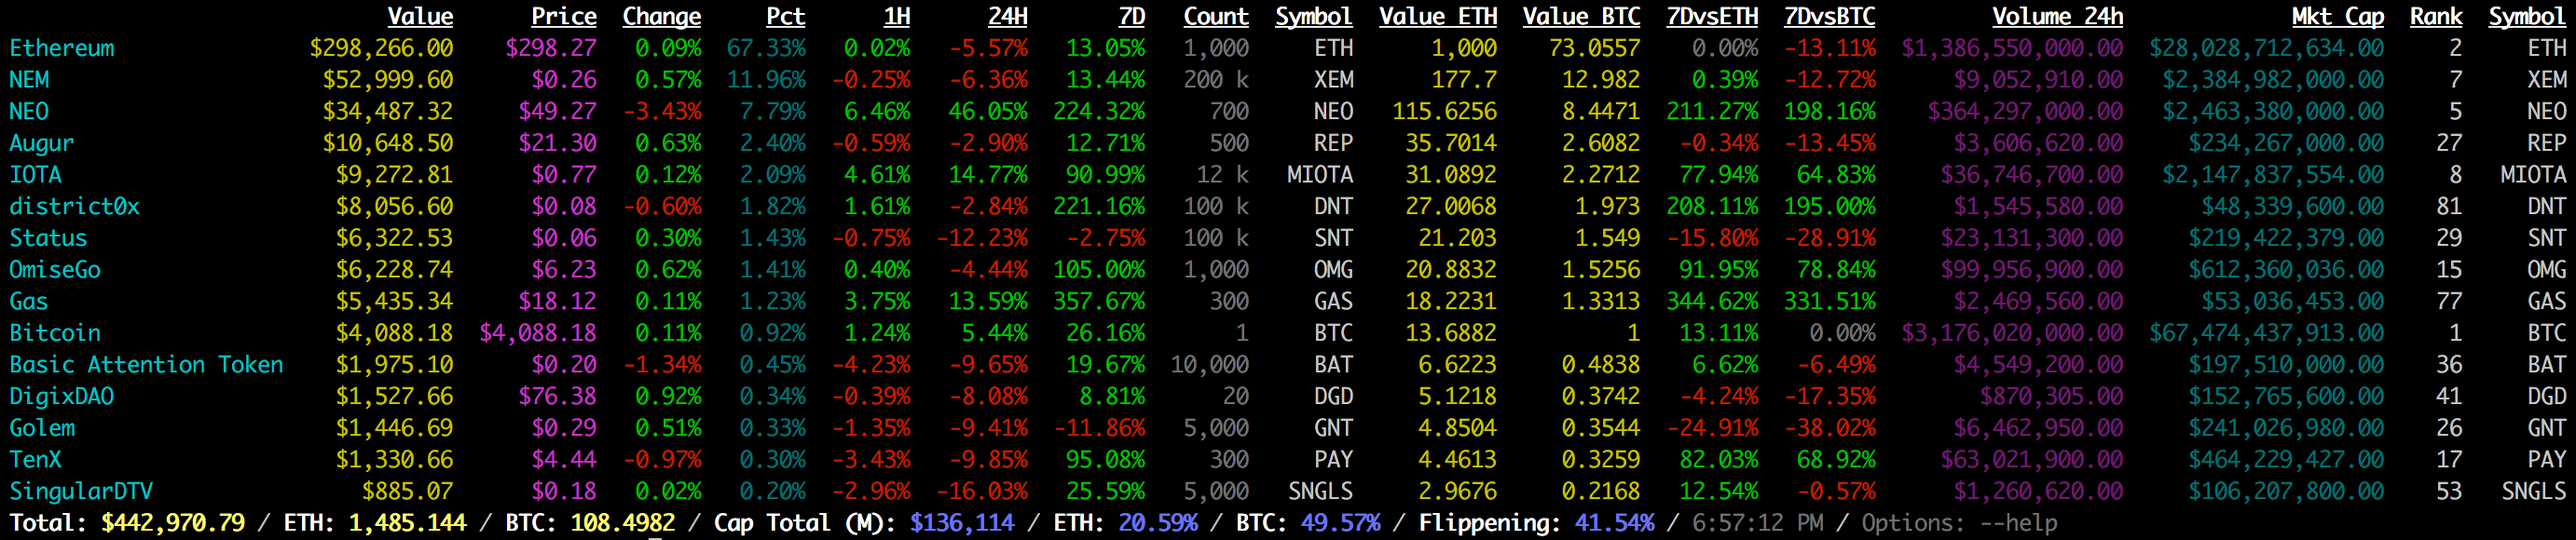
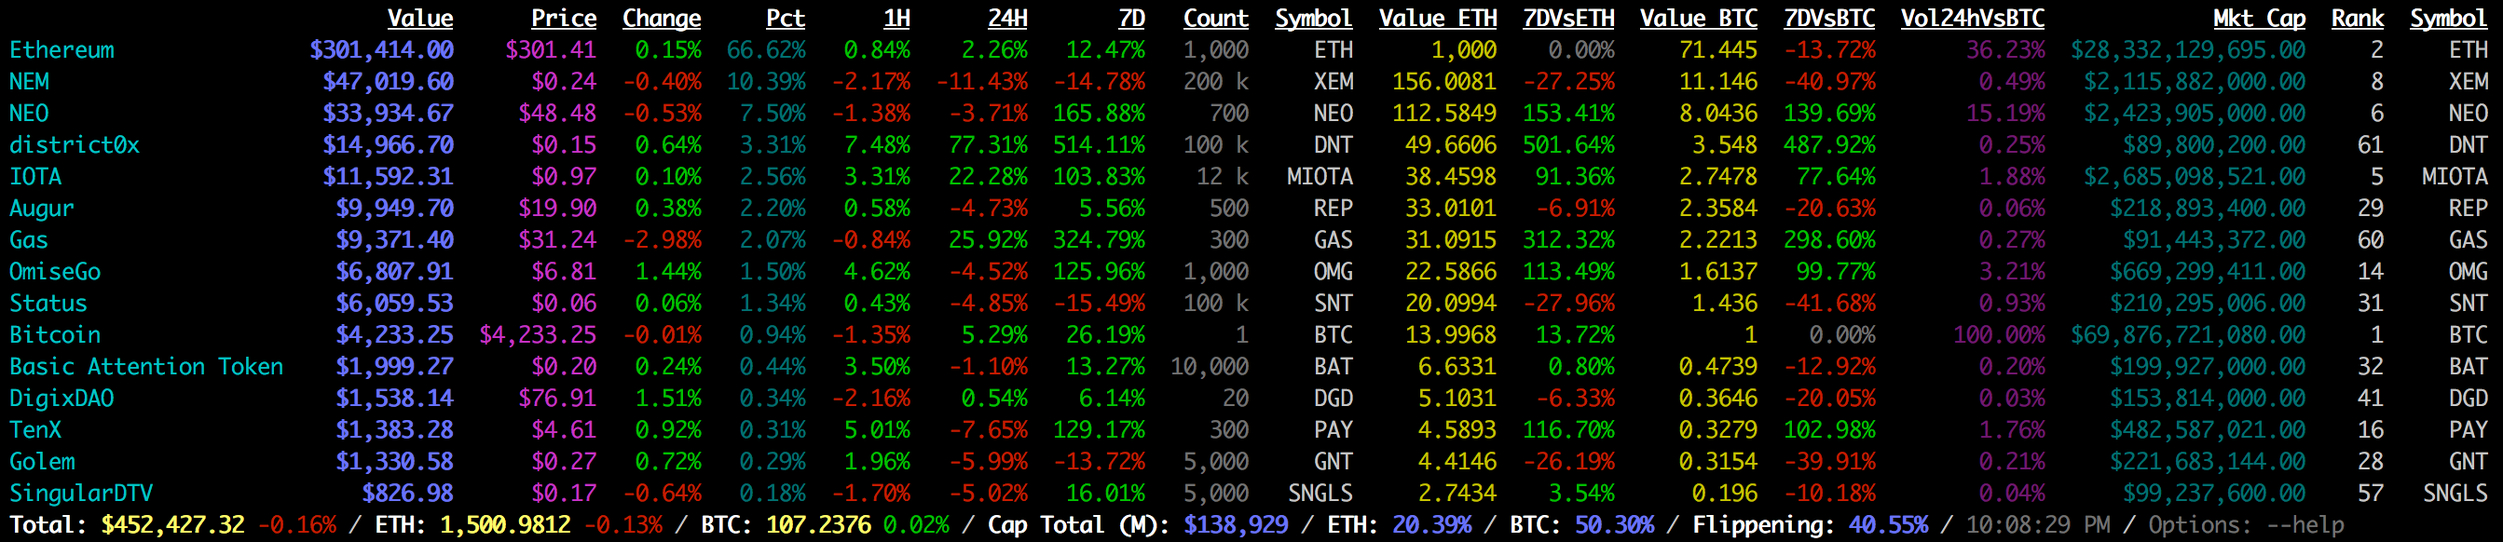
show percentage change for totals since last run

diff --git a/README.md b/README.md
@@ -14,6 +14,10 @@ Sample output:
 
 ``hodlings``
 
+``hodlings -x eur``
+
+``hodlings -x cny``
+
 ## Configure
 
 Create or edit the file `~/.hodlings` (Linux/MacOS: */home/[user]*, Windows: *c:\\Users\\[user]*) containing your portfolio. Use `#` to put in comments.
@@ -59,7 +63,8 @@ Improvements over original project:
 * footer shows total value in ETH and BTC in addition to chosen fiat currency
 * footer shows ETH market cap percentage of total crypto market cap
 * footer shows the *flippening ratio*
-* add 24h volume and rank columns
+* add 24h volume (as percentage of bitcoin's volume) column
+* add rank column
 * copy *.hodlings-example* file to *~/.hodlings* on first run for easier onboarding
 * adjust a few colors in the portfolio table for a nicer look
 * remove broken export to csv feature and a few deprecated or unneeded config options
